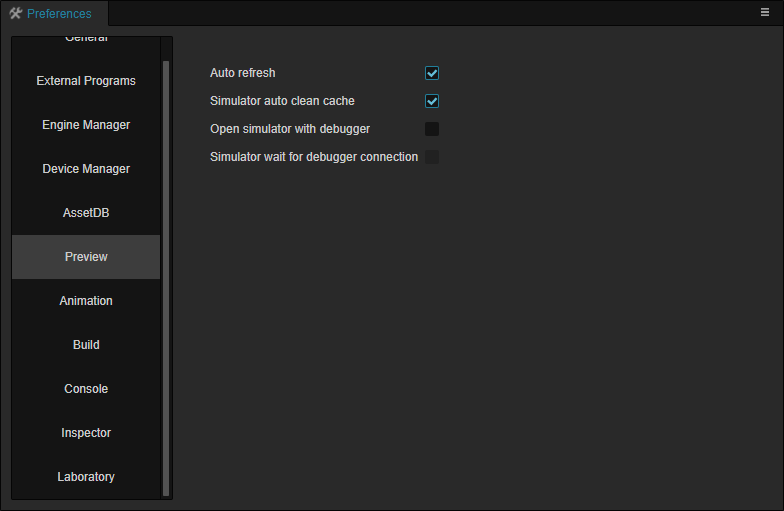
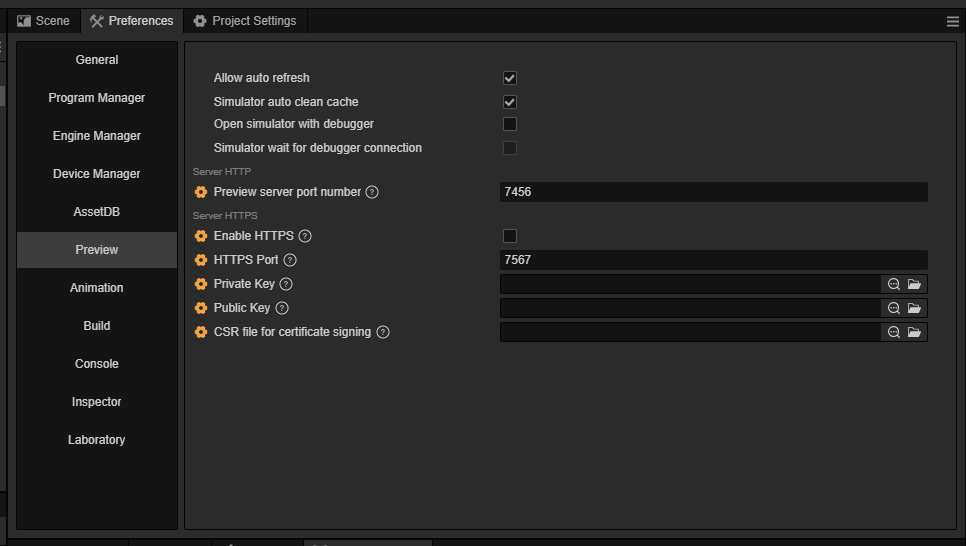
+ https

diff --git a/en/editor/preferences/index.md b/en/editor/preferences/index.md
@@ -151,6 +151,13 @@ The **Preview** tab is mainly used for the various options that can be set when 
 - **Auto clear cache when using simulator**: if this option is checked, the cache will be automatically cleared when using the simulator preview.
 - **Open simulator debugger**: if this option is checked, the debugger will be opened automatically when previewing the project with the simulator.
 - **Simulator wait for debugger to connect**: this option will take effect when **Open the simulator debugger** is checked, and it is used to pause the simulator startup process until the debugger is connected, which is used for debugging the loading process.
+- **Preview server port number**: Port for the preview server, Cocos Creator will create a http/https server to preview game when you click the preview button. 
+- **Enable HTTPS**：Whether to enable HTTPS for debugging
+- **HTTPS port**: Server port of HTTPS
+- **Private key**: Path of the private key 
+- **Public cert**: Path of the public cert 
+- **CSR file for certificate singing**: The path of CSR file.
+
 
 ## Build
 

diff --git a/zh/editor/preferences/index.md b/zh/editor/preferences/index.md
@@ -149,6 +149,12 @@
 - **模拟器自动清除缓存**：若勾选该项，则使用模拟器预览时会自动清除缓存。
 - **模拟器是否开启调试面板**：若勾选该项，则使用模拟器预览项目时将自动打开调试窗口。
 - **模拟器是否等待调试面板开启**：该项会在勾选了 **模拟器是否开启调试面板** 后生效，作用是暂停模拟器启动过程直至调试器连接完成，用于调试加载过程。
+- **预览服务器端口号**：该配置存储于项目内用于区分不同项目间的服务器端口号
+- **开启 HTTPS**：是否开启 HTTPS
+- **HTTPS 端口**： HTTPS 服务的端口号
+- **私钥 key**：HTTPS 证书的私钥路径
+- **公钥 cert**：HTTPS 证书的公钥路径
+- **签发文件 csr**： CSR 证书文件的路径
 
 ## 动画编辑器
 
